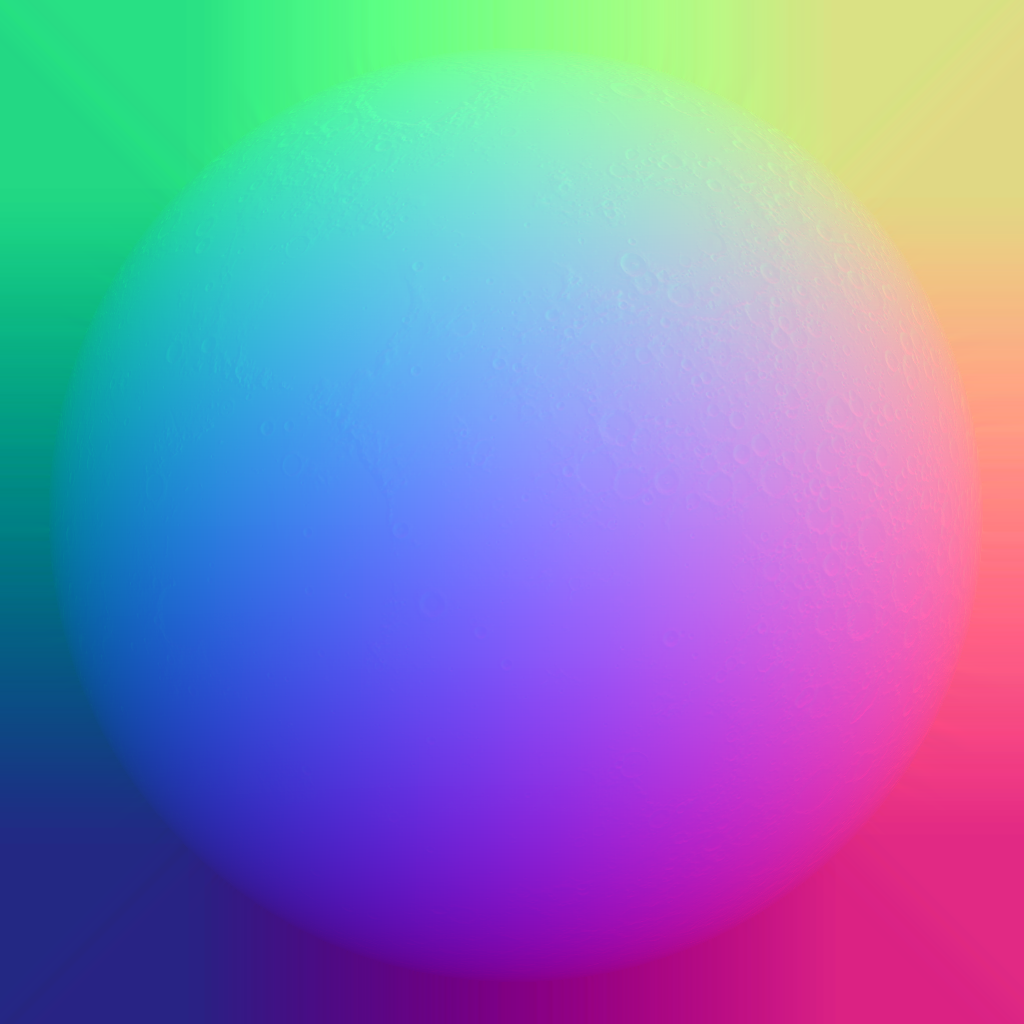
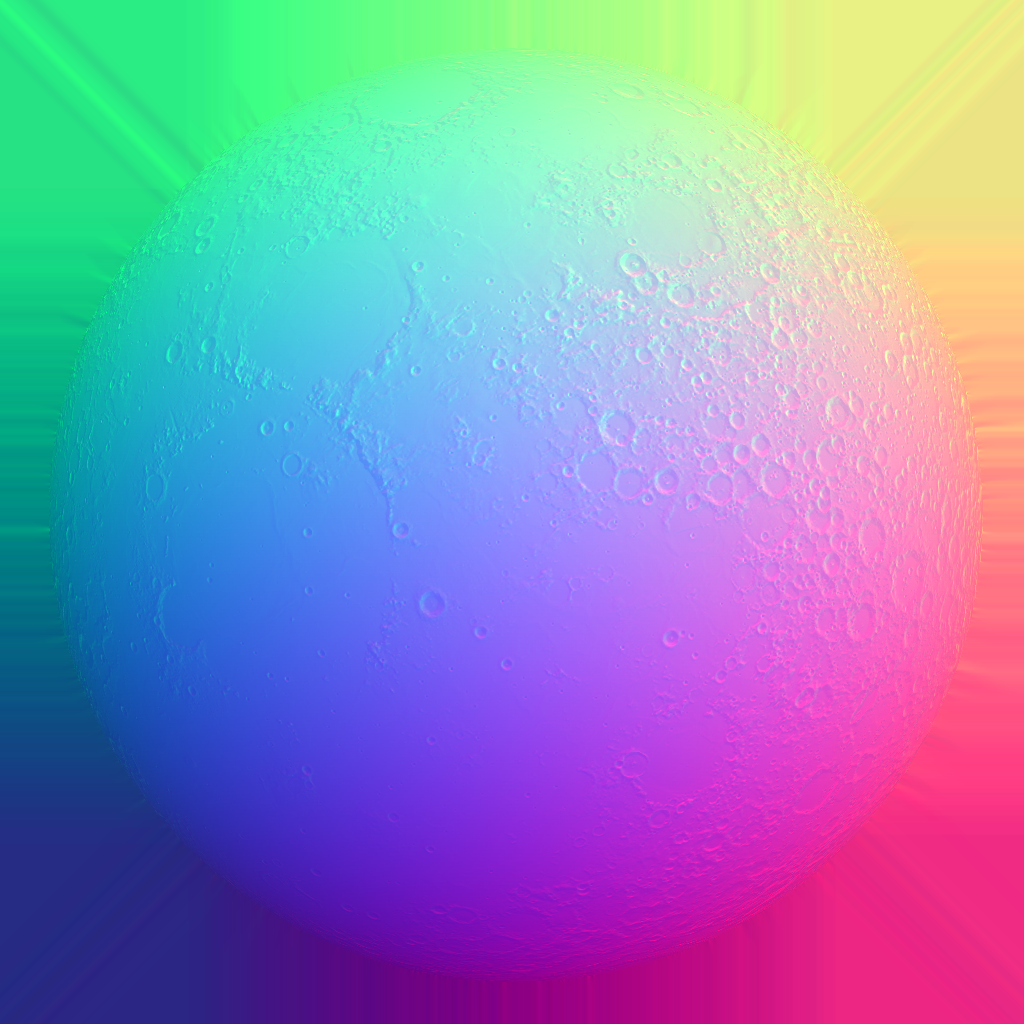
After swimming through mie and rayleigh scattering, in the hopes of acquiring an equation for light scattering from a non point object. That is, from an object like a partially full moon, I eventually concluded I should just give it up and make my first iteration a modification of the original code 

diff --git a/js/a-sky-forge/src/js/sky-shader.js b/js/a-sky-forge/src/js/sky-shader.js
@@ -10,12 +10,13 @@ AFRAME.registerShader('sky', {
     mieCoefficient: { type: 'number', default: 0.005, min: 0, max: 0.1, is: 'uniform' },
     mieDirectionalG: { type: 'number', default: 0.8, min: 0, max: 1, is: 'uniform' },
     sunPosition: { type: 'vec2', default: {x: 0.0,y: 0.0}, is: 'uniform' },
-    moonTexture: {type: 'map', src:'../images/moon-dif-1024.png', is: 'uniform'},
-    moonNormalMap: {type: 'map', src:'../images/moon-nor-1024-padded.png', is: 'uniform'},
+    moonTexture: {type: 'map', src:'../images/moon-dif-512.png', is: 'uniform'},
+    moonNormalMap: {type: 'map', src:'../images/moon-nor-512.png', is: 'uniform'},
     moonTangentSpaceSunlight: {type: 'vec3', default: {x: 0.0, y: 0.0, z: 0.0}, is: 'uniform'},
     moonPosition: {type: 'vec3', default: {x: 0.0, y: 0.0, z: 0.0}, is: 'uniform'},
     moonTangent: {type: 'vec3', default: {x: 0.0, y: 0.0, z: 0.0}, is: 'uniform'},
     moonBitangent: {type: 'vec3', default: {x: 0.0, y: 0.0, z: 0.0}, is: 'uniform'},
+    moonAzimuthAndAltitude: {type: 'vec2', default: {x: 0.0, y: 0.0}, is: 'uniform'},
     starMask: {type: 'map', src:'../images/padded-starry-sub-data-0.png', is: 'uniform'},
     starRas: {type: 'map', src:'../images/padded-starry-sub-data-1.png', is: 'uniform'},
     starDecs: {type: 'map', src:'../images/padded-starry-sub-data-2.png', is: 'uniform'},
@@ -78,7 +79,9 @@ AFRAME.registerShader('sky', {
     'const float mieZenithLength = 1.25E3;',
     'const vec3 up = vec3(0.0, 1.0, 0.0);',
 
-    'const float EE = 1000.0;',
+    'const float sunEE = 1000.0;',
+    '//TODO: Play with this',
+    'const float moonEE = 100.0;',
 
     '// mathematical constants',
     'const float e = 2.71828182845904523536028747135266249775724709369995957;',
@@ -108,11 +111,6 @@ AFRAME.registerShader('sky', {
     'const float angularRadiusOfTheSun = 0.0245; //Real Values',
     '//const float angularRadiusOfTheSun = 0.054; //FakeyValues',
 
-    '//',
-    '//NOTE: These values are interpolated, so we are probably not getting the values',
-    '//NOTE: we think we are getting. We would have to uninterpolate them and that would really',
-    '//NOTE: stink.',
-    '//',
     '//Sky Surface data',
     'varying vec3 normal;',
     'varying vec2 binormal;',
@@ -120,12 +118,13 @@ AFRAME.registerShader('sky', {
     '//Moon Data',
     'uniform sampler2D moonTexture;',
     'uniform sampler2D moonNormalMap;',
+    'uniform vec2 moonAzimuthAndAltitude;',
     'uniform vec3 moonTangentSpaceSunlight;',
     'uniform vec3 moonPosition;',
     'uniform vec3 moonTangent;',
     'uniform vec3 moonBitangent;',
-    'const float angularRadiusOfTheMoon = 0.024;',
-    '//const float angularRadiusOfTheMoon = 0.055; //Fakey Values',
+    '//const float angularRadiusOfTheMoon = 0.024;',
+    'const float angularRadiusOfTheMoon = 0.055; //Fakey Values',
     'const float earthshine = 0.02;',
 
     '//Earth data',
@@ -147,6 +146,14 @@ AFRAME.registerShader('sky', {
 
     'float fModulo(float a, float b){',
       'return (a - (b * floor(a / b)));',
+    '}',
+
+    'vec3 rgb2Linear(vec3 rgbColor){',
+      'return pow(rgbColor, vec3(2.2));',
+    '}',
+
+    'vec3 linear2Rgb(vec3 linearColor){',
+      'return pow(linearColor, vec3(0.454545454545454545));',
     '}',
 
     '//From http://byteblacksmith.com/improvements-to-the-canonical-one-liner-glsl-rand-for-opengl-es-2-0/',
@@ -175,9 +182,9 @@ AFRAME.registerShader('sky', {
     'float rgba2Float(vec4 colorIn){',
       'vec4 colorIn255bits = floor(colorIn * 255.0);',
 
-      'int floatSign = (modulo(colorIn255bits.a, 2.0)) == 0 ? -1 : 1;',
+      'float floatSign = (step(0.5,  float(modulo(colorIn255bits.a, 2.0)) ) - 0.5) * 2.0;',
       'float floatExponential = float(((int(colorIn255bits.a)) / 2) - 64);',
-      'float floatValue = float(floatSign) * (colorIn255bits.r * 256.0 * 256.0 + colorIn255bits.g * 256.0 + colorIn255bits.b) * pow(10.0, floatExponential);',
+      'float floatValue = floatSign * (colorIn255bits.r * 256.0 * 256.0 + colorIn255bits.g * 256.0 + colorIn255bits.b) * pow(10.0, floatExponential);',
 
       'return floatValue;',
     '}',
@@ -223,33 +230,23 @@ AFRAME.registerShader('sky', {
     '};',
 
     'skyWithAndWithoutStars starLayerBlending(vec4 starColor, vec4 skyColor, float sunE){',
-      'vec4 starColorRGB = vec4(starColor.rgb, 1.0);',
-      'vec4 starColorMag = starColorRGB * starColorRGB;',
-      'vec4 skyColorRGB = vec4(skyColor.rgb, 1.0);',
-      'vec4 skyColorMag = skyColorRGB * skyColorRGB;',
-
       '//The magnitude of the stars is dimmed according to the current brightness',
       '//but we now wish to keep the sky color the same',
       'vec4 starlessLight = skyColor;',
-      'vec4 combinedLight = sqrt(starColorMag * (1.0 - clamp(sunE / 150.0, 0.0, 1.0)) + skyColorMag);',
+      'vec4 combinedLight = vec4(linear2Rgb(rgb2Linear(starColor.rgb) * (1.0 - clamp(sunE / 150.0, 0.0, 1.0)) + rgb2Linear(skyColor.rgb)), 1.0);',
 
       'return skyWithAndWithoutStars(combinedLight, starlessLight);',
     '}',
 
     'vec4 moonLayerBlending(vec4 moonColor, vec4 skyColor, vec4 inColor){',
-      'vec4 moonColorRGB = vec4(moonColor.rgb, 1.0);',
-      'vec4 moonColorMag = moonColorRGB * moonColorRGB;',
-      'vec4 skyColorRGB = vec4(skyColor.rgb, 1.0);',
-      'vec4 skyColorMag = skyColorRGB * skyColorRGB;',
-      'vec4 combinedLight = clamp(sqrt(moonColorMag + skyColorMag), 0.0, 1.0);',
+      'vec3 combinedLight = clamp(linear2Rgb(rgb2Linear(moonColor.rgb) + rgb2Linear(skyColor.rgb)), 0.0, 1.0);',
 
-      'return moonColor.a > 0.95 ? vec4(combinedLight.rgb, 1.0) : vec4(mix(combinedLight.rgb, inColor.xyz, (1.0 - moonColor.a)), 1.0);',
+      'return vec4(mix(combinedLight.rgb, inColor.xyz, (1.0 - moonColor.a)), 1.0);',
     '}',
 
     '//',
     '//MOON',
     '//',
-
     'vec4 drawMoonLayer(float azimuthOfPixel, float altitudeOfPixel){',
       '//calculate the location of this pixels on the unit sphere',
       'float zenithOfPixel = piOver2 - altitudeOfPixel;',
@@ -300,8 +297,9 @@ AFRAME.registerShader('sky', {
     '}',
 
     'vec4 drawStar(vec2 raAndDec, vec2 raAndDecOfStar, float magnitudeOfStar, vec3 starColor){',
-      'float maxRadiusOfStar = 1.4 * (2.0/360.0) * piTimes2;',
-      'float normalizedMagnitude = (7.96 - (magnitudeOfStar + 1.46)) / 7.96;',
+      '//float maxRadiusOfStar = 1.4 * (2.0/360.0) * piTimes2;',
+      'const float maxRadiusOfStar = 0.0488692191;',
+      'float normalizedMagnitude = (1.0 - (magnitudeOfStar + 1.46) / 7.96);',
       'float radiusOfStar = clamp(maxRadiusOfStar * normalizedMagnitude, 0.0, maxRadiusOfStar);',
 
       '//',
@@ -325,7 +323,8 @@ AFRAME.registerShader('sky', {
       'vec3 positionData = haversineDistance(raAndDec.x, raAndDec.y, raAndDecOfStar.x, raAndDecOfStar.y);',
       'vec4 returnColor = vec4(0.0);',
       'if(positionData.z < radiusOfStar){',
-        'float lightness = exp(1.5 * 7.96 * ((radiusOfStar - positionData.z)/radiusOfStar)) / exp(1.5 * 7.96);',
+        '//float lightness = exp(11.94 * ((radiusOfStar - positionData.z)/radiusOfStar)) / exp(11.94);',
+        'float lightness = exp(11.94 * ((radiusOfStar - positionData.z)/radiusOfStar)) / 153276.6902;',
         'vec3 colorOfSky = vec3(0.1, 0.2, 1.0);',
         'vec3 colorOfPixel = mix(mix(starColor, colorOfSky, (radiusOfStar - positionData.z)/(1.2 * radiusOfStar)), vec3(1.0), lightness);',
         'returnColor = vec4(colorOfPixel, lightness);',
@@ -357,9 +356,10 @@ AFRAME.registerShader('sky', {
       'highp float startingPointY = activeImageHeight * normalizedDec;',
 
       '//Main draw loop',
+      '//Dropping those last two calls is a big deal!',
       'vec4 returnColor = vec4(skyColor);',
-      'for(highp int i = 0; i <= 10; ++i){',
-        'for(highp int j = 0; j <= 10; ++j){',
+      'for(highp int i = 0; i <= 6; ++i){',
+        'for(highp int j = 0; j <= 8; ++j){',
           'highp float xLoc = startingPointX + float(i);',
           'highp float yLoc = startingPointY + float(j);',
 
@@ -408,7 +408,10 @@ AFRAME.registerShader('sky', {
     '}',
 
     'float rayleighPhase(float cosTheta){',
-      'return (3.0 / (16.0*pi)) * (1.0 + pow(cosTheta, 2.0));',
+      '//TODO: According to, http://amd-dev.wpengine.netdna-cdn.com/wordpress/media/2012/10/ATI-LightScattering.pdf',
+      '//There should also be a Reileigh Coeficient in this equation - it is set to 1 here.',
+      'float reigleighCoefficient = 1.0;',
+      'return (3.0 / (16.0*pi)) * reigleighCoefficient * (1.0 + pow(cosTheta, 2.0));',
     '}',
 
     'vec3 totalMie(vec3 lambda, vec3 K, float T){',
@@ -420,7 +423,7 @@ AFRAME.registerShader('sky', {
       'return (1.0 / (4.0*pi)) * ((1.0 - pow(g, 2.0)) / pow(1.0 - 2.0*g*cosTheta + pow(g, 2.0), 1.5));',
     '}',
 
-    'float sunIntensity(float zenithAngleCos){',
+    'float lightIntensity(float zenithAngleCos, float EE){',
       'return EE * max(0.0, 1.0 - exp(-((cutoffAngle - acos(zenithAngleCos))/steepness)));',
     '}',
 
@@ -443,6 +446,7 @@ AFRAME.registerShader('sky', {
       'float sunE;',
       'vec3 Lin;',
       'float sunfade;',
+      'float moonfade;',
       'vec4 skyColor;',
     '};',
 
@@ -454,9 +458,19 @@ AFRAME.registerShader('sky', {
       'float sunX = sin(zenithAngle) * cos(sunAz + pi);',
       'float sunZ = sin(zenithAngle) * sin(sunAz + pi);',
       'float sunY = cos(zenithAngle);',
+      'float moonAz = moonAzimuthAndAltitude.x;',
+      'float moonAlt = moonAzimuthAndAltitude.y;',
+      'float moonZenithAngle = piOver2 - moonAlt;',
+      'float moonX = sin(moonZenithAngle) * cos(moonAz + pi);',
+      'float moonZ = sin(moonZenithAngle) * sin(moonAz + pi);',
+      'float moonY = cos(moonZenithAngle);',
+
       'float heightOfSunInSky = 5000.0 * sunZ; //5000.0 is presumed to be the radius of our sphere',
+      'float heightOfMoonInSky = 5000.0 * moonZ;',
       'float sunfade = 1.0-clamp(1.0-exp(heightOfSunInSky/5000.0),0.0,1.0);',
-      'float reileighCoefficient = reileigh - (1.0 * (1.0-sunfade));',
+      'float moonfade = 1.0-clamp(1.0-exp(heightOfMoonInSky/5000.0),0.0,1.0);',
+      'float reileighCoefficientOfSun = reileigh - (1.0-sunfade);',
+      'float reileighCoefficientOfMoon = reileigh - (1.0-moonfade);',
 
       '//Get the sun intensity',
       '//Using dot(a,b) = ||a|| ||b|| * cos(a, b);',
@@ -465,40 +479,54 @@ AFRAME.registerShader('sky', {
       '//the magnitude of that vector will always be one.',
       '//while',
       'vec3 floatSunPosition = normalize(vec3(sunX, sunY, sunZ));',
+      'vec3 floatMoonPosition = normalize(vec3(moonX, moonY, moonZ));',
       'float dotOfSunDirectionAndUp = dot(floatSunPosition, up);',
-      'float sunE = sunIntensity(dotOfSunDirectionAndUp);',
+      'float dotOfMoonDirectionAndUp = dot(floatMoonPosition, up);',
+      'float sunE = lightIntensity(dotOfSunDirectionAndUp, sunEE);',
+      'float moonE = lightIntensity(dotOfMoonDirectionAndUp, moonEE);',
 
       '//Acquire betaR and betaM',
-      'vec3 betaR = simplifiedRayleigh() * reileighCoefficient;',
+      'vec3 betaRSun = simplifiedRayleigh() * reileighCoefficientOfSun;',
+      'vec3 betaRMoon = simplifiedRayleigh() * reileighCoefficientOfMoon;',
       'vec3 betaM = totalMie(lambda, K, turbidity) * mieCoefficient;',
 
       '// Get the current optical length',
       '// cutoff angle at 90 to avoid singularity in next formula.',
       '//presuming here that the dot of the sun direction and up is also cos(zenith angle)',
-      'float sR = rayleighZenithLength / (dotOfSunDirectionAndUp + 0.15 * pow(93.885 - ((zenithAngle * 180.0) / pi), -1.253));',
-      'float sM = mieZenithLength / (dotOfSunDirectionAndUp + 0.15 * pow(93.885 - ((zenithAngle * 180.0) / pi), -1.253));',
+      'float sunR = rayleighZenithLength / (dotOfSunDirectionAndUp + 0.15 * pow(clamp(93.885 - ((zenithAngle * 180.0) / pi), 0.0001, 360.0), -1.253));',
+      'float moonR = rayleighZenithLength / (dotOfMoonDirectionAndUp + 0.15 * pow(clamp(93.885 - ((moonZenithAngle * 180.0) / pi), 0.001, 360.0), -1.253));',
+      'float sunM = mieZenithLength / (dotOfSunDirectionAndUp + 0.15 * pow(clamp(93.885 - ((zenithAngle * 180.0) / pi), 0.0001, 360.0), -1.253));',
+      'float moonM = mieZenithLength / (dotOfMoonDirectionAndUp + 0.15 * pow(clamp(93.885 - ((moonZenithAngle * 180.0) / pi), 0.0001, 360.0), -1.253));',
 
       '// combined extinction factor',
-      'vec3 Fex = exp(-(betaR * sR + betaM * sM));',
+      'vec3 Fex = exp(-(betaRSun * sunR + betaM * sunM));',
+      'vec3 FexMoon = exp(-(betaRMoon * moonR + betaM * moonM));',
 
       '// in scattering',
       'float cosTheta = dot(normalize(vWorldPosition - vec3(0.0)), floatSunPosition);',
+      'float cosThetaMoon = dot(normalize(vWorldPosition - vec3(0.0)), floatMoonPosition);',
 
       'float rPhase = rayleighPhase(cosTheta*0.5+0.5);',
-      'vec3 betaRTheta = betaR * rPhase;',
+      'float rPhaseOfMoon = rayleighPhase(cosThetaMoon * 0.5 + 0.5);',
+      'vec3 betaRTheta = betaRSun * rPhase;',
+      'vec3 betaRThetaMoon = betaRMoon * rPhaseOfMoon;',
 
       'float mPhase = hgPhase(cosTheta, mieDirectionalG);',
+      'float mPhaseOfMoon = hgPhase(cosThetaMoon, mieDirectionalG);',
       'vec3 betaMTheta = betaM * mPhase;',
+      'vec3 betaMThetaOfMoon = betaM * mPhaseOfMoon;',
 
-      'vec3 Lin = pow(sunE * ((betaRTheta + betaMTheta) / (betaR + betaM)) * (1.0 - Fex),vec3(1.5));',
-      'Lin *= mix(vec3(1.0),pow(sunE * ((betaRTheta + betaMTheta) / (betaR + betaM)) * Fex,vec3(1.0/2.0)),clamp(pow(1.0-dotOfSunDirectionAndUp,5.0),0.0,1.0));',
+      'vec3 Lin = pow((sunE) * ((betaRTheta + betaMTheta) / (betaRSun + betaM)) * (1.0 - Fex),vec3(1.5));',
+      'Lin *= mix(vec3(1.0),pow((sunE) * ((betaRTheta + betaMTheta) / (betaRSun + betaM)) * Fex,vec3(1.0/2.0)),clamp(pow(1.0-dotOfSunDirectionAndUp,5.0),0.0,1.0));',
+      'vec3 LinOfMoon = pow((moonE) * ((betaRThetaMoon + betaMThetaOfMoon) / (betaRMoon + betaM)) * (1.0 - FexMoon),vec3(1.5));',
+      'LinOfMoon *= mix(vec3(1.0),pow((moonE) * ((betaRThetaMoon + betaMThetaOfMoon) / (betaRMoon + betaM)) * FexMoon,vec3(1.0/2.0)),clamp(pow(1.0-dotOfMoonDirectionAndUp,5.0),0.0,1.0));',
 
       '//nightsky',
       'vec2 uv = vec2(azimuthOfPixel, (piOver2 - altitudeOfPixel)) / vec2(2.0*pi, pi) + vec2(0.5, 0.0);',
-      'vec3 L0 = vec3(0.1) * Fex;',
+      'vec3 L0 = vec3(0.1) * (Fex + FexMoon);',
 
       '//Final lighting, duplicated above for coloring of sun',
-      'vec3 texColor = (Lin+L0);',
+      'vec3 texColor = (Lin + LinOfMoon + L0);',
       'texColor *= 0.04 ;',
       'texColor += vec3(0.0,0.001,0.0025)*0.3;',
 
@@ -512,9 +540,9 @@ AFRAME.registerShader('sky', {
       'vec3 curr = Uncharted2Tonemap((log2(2.0/pow(luminance,4.0)))*texColor);',
       'vec3 color = curr*whiteScale;',
 
-      'vec3 retColor = pow(abs(color),vec3(1.0/(1.2+(1.2*sunfade))));',
+      'vec3 retColor = pow(abs(color),vec3(1.0/(1.2+(1.2* (sunfade + moonfade)))));',
 
-      'return skyparams(cosTheta, Fex, sunE, Lin, sunfade, vec4(retColor, 1.0));',
+      'return skyparams(cosTheta, Fex, sunE, Lin, sunfade, moonfade, vec4(retColor, 1.0));',
     '}',
 
     '//',
@@ -560,13 +588,12 @@ AFRAME.registerShader('sky', {
       '//Also, whenever the sun falls below the horizon, everything explodes in the original code.',
       '//Thus, I have taken the liberty of killing the sky when that happens to avoid explody code.',
       'skyparams skyParams = drawSkyLayer(azimuth, altitude);',
-      'vec4 skyColor = sunPosition.y > -0.06 ? skyParams.skyColor : vec4(vec3(0.0), 1.0);',
+      'vec4 skyColor = skyParams.skyColor;',
 
       'skyWithAndWithoutStars starLayerData = starLayerBlending(drawStarLayer(azimuth, altitude, baseColor), skyColor, skyParams.sunE);',
       'vec4 outColor = starLayerData.starLayer;',
 
-      'vec4 sunLayer = mixSunLayer(drawSunLayer(azimuth, altitude, skyParams), outColor);',
-      'outColor = sunPosition.y > -0.06 ? sunLayer : outColor;',
+      'outColor = mixSunLayer(drawSunLayer(azimuth, altitude, skyParams), outColor);',
 
       'outColor = moonLayerBlending(drawMoonLayer(azimuth, altitude), starLayerData.starlessLayer, outColor);',
 

diff --git a/js/a-sky-forge/src/js/a-frame-components.js b/js/a-sky-forge/src/js/a-frame-components.js
@@ -156,6 +156,8 @@ AFRAME.registerComponent('sky-time', {
       this.interpolator.setLinearInterpolationForScalar('sunAltitude', ['sunPosition', 'altitude'], false);
       this.interpolator.setAngularLinearInterpolationForScalar('localSiderealTime', ['localApparentSiderealTimeForUniform'], false);
 
+      this.interpolator.setLinearInterpolationForScalar('moonAzimuth', ['moonPosition', 'azimuth'], false,);
+      this.interpolator.setLinearInterpolationForScalar('moonAltitude', ['moonPosition', 'altitude'], false);
       this.interpolator.setSLERPFor3Vect('moonMappingTangentSpaceSunlight', ['moonMappingTangentSpaceSunlight'], false);
       this.interpolator.setSLERPFor3Vect('moonMappingPosition', ['moonMappingPosition'], false);
       this.interpolator.setSLERPFor3Vect('moonMappingTangent', ['moonMappingTangent'], false);
@@ -192,6 +194,7 @@ AFRAME.registerComponent('sky-time', {
       var mmb = interpolatedValues.moonMappingBitangent;
 
       this.el.components.material.material.uniforms.moonTangentSpaceSunlight.value.set(mtss.x, mtss.y, mtss.z);
+      this.el.components.material.material.uniforms.moonAzimuthAndAltitude.value.set(interpolatedValues.moonAzimuth, interpolatedValues.moonAltitude);
       this.el.components.material.material.uniforms.moonPosition.value.set(mp.x, mp.y, mp.z);
       this.el.components.material.material.uniforms.moonTangent.value.set(mmt.x, mmt.y, mmt.z);
       this.el.components.material.material.uniforms.moonBitangent.value.set(mmb.x, mmb.y, mmb.z);

diff --git a/examples/island.html b/examples/island.html
@@ -11,20 +11,20 @@
 
     <script src="https://aframe.io/releases/0.8.0/aframe.min.js"></script>
     <!--This commented out code is the unfurled stack which I use for debugging-->
-    <!-- <script src="../js/a-sky-forge/src/js/cloner.js"></script>
+    <script src="../js/a-sky-forge/src/js/cloner.js"></script>
     <script src="../js/a-sky-forge/src/js/sky-shader.js"></script>
     <script src="../js/a-sky-forge/src/js/a-sky-forge.js"></script>
     <script src="../js/a-sky-forge/src/js/a-dynamic-sky-entity-methods.js"></script>
     <script src="../js/a-sky-forge/src/js/a-frame-components.js"></script>
-    <script src="../js/a-sky-forge/src/js/a-sky-interpolator.js"></script> -->
-    <script src="../js/a-sky-forge/dist/askyforge.v0.1.0.min.js"></script>
+    <script src="../js/a-sky-forge/src/js/a-sky-interpolator.js"></script>
+    <!-- <script src="../js/a-sky-forge/dist/askyforge.v0.1.0.min.js"></script> -->
 
   <!--Scene Scripts-->
   </head>
   <body>
     <a-scene physics>
       <!-- Sky -->
-      <a-sky-forge sky-time="timeMultiplier: 200.0; utcOffset:-7;" geo-coordinates="lat: 37; long: 112.0;" material="shader: sky; side:back;"></a-sky-forge>
+      <a-sky-forge sky-time="timeMultiplier: 800.0; utcOffset:-7; dayOfTheYear: 180;" geo-coordinates="lat: 37; long: 112.0;" material="shader: sky; side:back;"></a-sky-forge>
     </a-scene>
   </body>
 </html>
